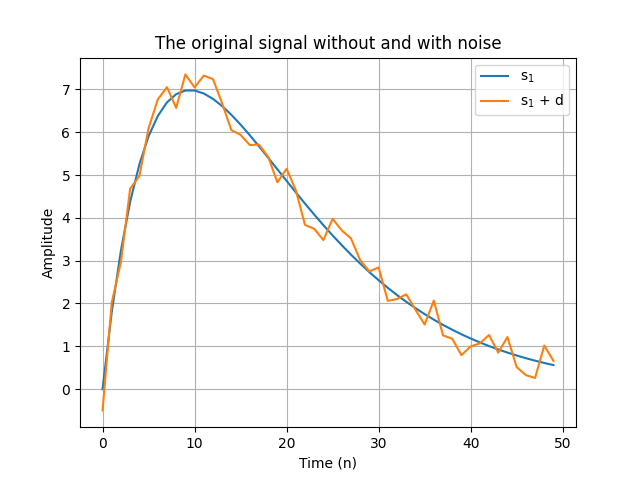
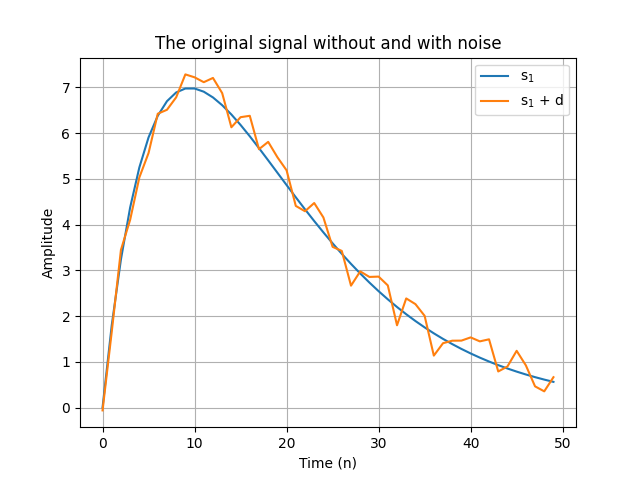
chore: change task2 code; change task1 filter

diff --git a/lab1/task2.py b/lab1/task2.py
@@ -2,67 +2,73 @@ import numpy as np
 import matplotlib.pyplot as plt
 from scipy.signal import lfilter, sawtooth
 
-
-def noiseFilter(noise=False, MAF=False, moreM=False, differentS=False):
-    R = 50
-    m = np.arange(0, R)
-    s = 2 * m * (0.9 ** m)
+def computeValues(R, S=False):
+    if not S:
+        m = np.arange(0, R)
+        s = 2 * m * (0.9 ** m)
+    else:
+        m = np.arange(0, R, 0.001)
+        s = 2 * sawtooth(3 * np.pi * m + np.pi/6)    
     d = np.random.rand(len(m)) - 0.5
     x = s + d
+    
+    return m, s, x
 
-    # Plotting the filtered signal with different M values 2.6
-    if noise and MAF:
-        if moreM:
-            M = [3, 5, 10]
-            for i in M:
-                b = np.ones(i) / i
-                y = lfilter(b, 1, x)
-                plt.plot(m, y, label=f'M = {i}')
-            plt.title('The filtered signal with different M values')
-            save = './plots/2.6.png'
-        # Plotting The original signal, the noisy signal and the filtered signal 2.5
-        else:    
-            M = 3
-            b = np.ones(M) / M
-            y = lfilter(b, 1, x)
-            plt.plot(m, s, 'r-', label='Original s$_1$') 
-            plt.plot(m, x, 'b--', label='Noisy x')    
-            plt.plot(m, y, 'g-.', label='Filtered y')   
-            plt.title('Original, Noisy, and Filtered Signals')
-            save = './plots/2.5.png' 
-    # Plotting the original signal with and without noise 2.1-2.4        
-    elif noise and not MAF:
-        plt.plot(m, s, label='s$_1$')
-        plt.plot(m, x, label='s$_1$ + d')
-        plt.title('The original signal without and with noise')
-        save = './plots/2.1-2.4.png'
-    # Plotting the original, noisy, and filtered signals 2.7    
-    elif differentS:
-        R = 1
-        m = np.arange(0, R, 0.001)
-        s = 2 * sawtooth(3 * np.pi * m + np.pi/6)
-        d = np.random.rand(len(m)) - 0.5
-        x = s + d
-        if moreM:
-            M = [20, 50, 100]
-            for i in M:
-                b = np.ones(i) / i
-                y = lfilter(b, 1, x)
-                plt.plot(m, y, label=f'M = {i}')
-            plt.title('The filtered signal with different M values')
-            save = './plots/2.8.png'
-        else:    
-            M = 20
-            b = np.ones(M) / M
-            y = lfilter(b, 1, x)
-            plt.plot(m, s, 'r-', label='Original s$_2$') 
-            plt.plot(m, x, 'b--', label='Noisy x')    
-            plt.plot(m, y, 'g-.', label='Filtered y') 
-            plt.title('Original, Noisy, and Filtered Signals')
-            save = './plots/2.7.png' 
+def plotGenerator(save):
     plt.grid(True)
     plt.xlabel('Time (n)')
     plt.ylabel('Amplitude')
     plt.legend()
     plt.savefig(f'{save}')
     plt.show()
+
+def noiseGenerator():  
+    m, s, x = computeValues(50)    
+    plt.plot(m, s, label='s$_1$')
+    plt.plot(m, x, label='s$_1$ + d')
+    plt.title('The original signal without and with noise')
+    save = './plots/2.1-2.4.png'
+    plotGenerator(save)
+
+def noiseFilter(moreM=False, s2=False):
+    if not s2:
+        m, s, x = computeValues(50)
+        M = [3, 5, 10]
+    else:
+        m, s, x = computeValues(1, True)
+        M = [20, 50, 100]   
+    b = np.ones(M[0]) / M[0]
+    y = lfilter(b, 1, x)
+    if not moreM:
+        b = np.ones(M[0]) / M[0]
+        y = lfilter(b, 1, x)
+        plt.plot(m, x, 'g--', label='Noisy x')    
+        plt.plot(m, y, 'c-', label='Filtered y')
+        plt.plot(m, s, 'r-', label='Original s$_1$') 
+        plt.title('Original, Noisy, and Filtered Signals')
+        if not s2:
+            save = './plots/2.5.png'
+        else:
+            save = './plots/2.7.png'    
+    else:    
+        fig, axs = plt.subplots(1, len(M), figsize=(15, 5))
+
+        for i, M_val in enumerate(M):
+            b = np.ones(M_val) / M_val
+            y = lfilter(b, 1, x)
+            
+            axs[i].plot(m, x, 'g--', label='Noisy x') 
+            axs[i].plot(m, y, 'c-', label=f'Filtered y, M = {M_val}')
+            axs[i].plot(m, s, 'r-', label='Original s$_2$')
+            axs[i].set_title(f'Original, Noisy, and Filtered Signals with M = {M_val}')
+            axs[i].set_xlabel('Time (n)')
+            axs[i].set_ylabel('Amplitude')
+            axs[i].legend()
+
+        plt.suptitle('The filtered signal with different M values')
+        plt.tight_layout()
+        if not s2:
+            save = './plots/2.6.png'
+        else: 
+            save = './plots/2.8.png'    
+    plotGenerator(save)        

diff --git a/lab1/main.py b/lab1/main.py
@@ -1,21 +1,28 @@
 import matplotlib.pyplot as plt
+import numpy as np
 from task1 import randomNoise, digitalFilter
-from task2 import noiseFilter
+from task2 import noiseFilter, noiseGenerator
 
 
+signalLimit2 = 75
+signalLimit1 = 5
 Ts1 = 0.01
 Ts2 = 0.001
+t1 = np.arange(0, signalLimit2+Ts1, Ts1)
+t2 = np.arange(1, signalLimit2+Ts2, Ts2)
+x1 = np.random.randn(len(t1))
+x2 = np.random.randn(len(t2))
 
 # Plotting the random noise 1.1-1.4
 plt.figure(figsize=(10, 8))
 plt.subplot(2, 2, 1)
-randomNoise(Ts1, True)
+randomNoise(Ts1, signalLimit1, True)
 plt.subplot(2, 2, 2)
-randomNoise(Ts1, False)
+randomNoise(Ts1, signalLimit1, False)
 plt.subplot(2, 2, 3)
-randomNoise(Ts2, True)
+randomNoise(Ts2, signalLimit1, True)
 plt.subplot(2, 2, 4)
-randomNoise(Ts2, False)
+randomNoise(Ts2, signalLimit1, False)
 plt.tight_layout()
 plt.savefig('./plots/1.1-1.4.png')
 plt.show()
@@ -23,24 +30,20 @@ plt.show()
 # Plotting the digital filter 1.5-1.6
 plt.figure(figsize=(10, 8))
 plt.subplot(1, 2, 1)
-digitalFilter(Ts1)
+digitalFilter(Ts1, t1, x1)
 plt.subplot(1, 2, 2)
-digitalFilter(Ts2)
+digitalFilter(Ts2, t2, x2)
 plt.tight_layout()
 plt.savefig('./plots/1.5-1.6.png')
 plt.show()
 
-# Plotting the original signal without and with noise 2.1-2.4
-noiseFilter(noise=True, MAF=False)
-
-# Plotting the original signal, the noisy signal and the filtered signal 2.5
-noiseFilter(noise=True, MAF=True)
-
-# Plotting the filtered signal for more M 2.6
-noiseFilter(noise=True, MAF=True, moreM=True)
-
-# Plotting the original, noisy, and filtered signals for s2 2.7
-noiseFilter(noise=False, MAF=False, moreM=False, differentS=True)
-
-# Plotting the filtered signal s2 for more M 2.8
-noiseFilter(noise=False, MAF=False, moreM=True, differentS=True)
+# Plotting the noise generator 2.1-2.4
+noiseGenerator()
+# Plotting the noise filter 2.5
+noiseFilter()
+# Plotting the noise filter with more M values 2.6
+noiseFilter(moreM=True)
+# Plotting the noise filter with s2 changed initial signal 2.7
+noiseFilter(moreM=False, s2=True)
+# Plotting the noise filter with more M values and s2 changed initial signal 2.8
+noiseFilter(moreM=True, s2=True)

diff --git a/lab1/task1.py b/lab1/task1.py
@@ -1,44 +1,37 @@
 import numpy as np
 import matplotlib.pyplot as plt
+from scipy.signal import lfilter
 
 
-def randomNoise(Ts=0.01, plot=True):
+def randomNoise(Ts=0, signalLimit=0, plot=True):
+    t = np.arange(0, signalLimit+Ts, Ts)
+    x = np.random.randn(len(t))
     if Ts == 0.01:
         xLabel = 'x$_1$'
         color = 'r'
     elif Ts == 0.001:
         xLabel = 'x$_2$'
         color = 'g'  
-    if Ts == 0.01 and not plot:   
-        t = np.arange(1, 5, Ts) 
-    t = np.arange(0, 5, Ts)
-    x = np.random.rand(len(t))
 
     if plot:
         plt.plot(t, x, label=xLabel, color=color)
         plt.title(f'Example of white noise using plot, Ts={Ts}s')
     else:
-        plt.hist(x, bins=20, label=xLabel, color=color)    
+        plt.hist(x, bins=50, label=xLabel, color=color, edgecolor='black')    
         plt.title(f'Example of white noise using hist, Ts={Ts}s')
     plt.grid(True)
-    plt.xlabel('time(s)')
-    plt.ylabel('function y(t)')
+    plt.xlabel('Time(s)')
+    plt.ylabel('Function y(t)')
     plt.legend()
 
-def digitalFilter(Ts=0.01):
+def digitalFilter(Ts=0, t=0, x=0):
     om0 = 2 * np.pi
     dz = 0.005
     A = 1
     oms = om0 * Ts
-    a = np.zeros(3)
-    a[0] = 1 + 2 * dz * oms + oms ** 2
-    a[1] = -2 * (1 + dz * oms)
-    a[2] = 1
-    b = np.zeros(1)
-    b[0] = A * 2 * oms ** 2
-    t = np.arange(0, 50, Ts)
-    x = np.random.rand(len(t))
-    y1 = np.convolve(x, b, mode='same') / a[0] - np.convolve(x, a[1:], mode='same') / a[0]
+    a = [1 + 2 * dz * oms + oms ** 2, -2 * (1 + dz * oms), 1]
+    b = [A * 2 * oms ** 2]
+    y1 = lfilter(b, a, x) 
 
     if Ts == 0.01:
         xLabel = 'x$_1$'
@@ -48,7 +41,7 @@ def digitalFilter(Ts=0.01):
         color = 'g'
     plt.plot(t, y1, label=xLabel, color=color)
     plt.grid(True)
-    plt.xlabel('time(s)')
-    plt.ylabel('function y(t)')
+    plt.xlabel('Time(s)')
+    plt.ylabel('Function y(t)')
     plt.title(f'Filtering noise with a second-order filter Ts={Ts}s')
     plt.legend()
